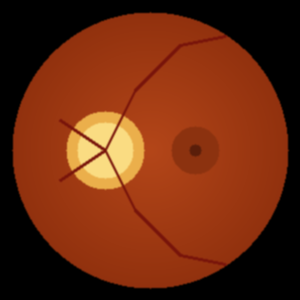
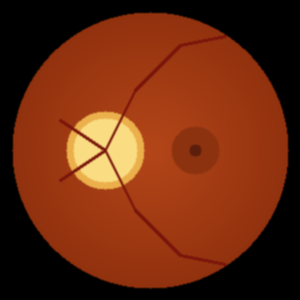
docs(readme): add 1-click Render cloud deploy button and CI/CD status badges

Changed region(s): [[0.24, 0.39, 0.48, 0.63]]

diff --git a/README.md b/README.md
@@ -1,8 +1,10 @@
 # Explainable Glaucoma Detection Using EfficientNet-B3, Hypergraph Neural Networks, and Vision-Language Transformers
 
+[![Deploy to Render](https://render.com/images/deploy-to-render-button.svg)](https://render.com/deploy?repo=https://github.com/jeromeyyy/glaucoma)
+[![CI/CD Pipeline](https://github.com/jeromeyyy/glaucoma/actions/workflows/ci-cd.yml/badge.svg)](https://github.com/jeromeyyy/glaucoma/actions)
 [![Python 3.10+](https://img.shields.io/badge/Python-3.10+-blue.svg)](https://www.python.org/)
 [![PyTorch](https://img.shields.io/badge/PyTorch-2.0+-red.svg)](https://pytorch.org/)
-[![Flask](https://img.shields.io/badge/Flask-3.0+-green.svg)](https://flask.palletsprojects.com/)
+[![FastAPI](https://img.shields.io/badge/FastAPI-0.115+-009688.svg)](https://fastapi.tiangolo.com/)
 [![License: MIT](https://img.shields.io/badge/License-MIT-yellow.svg)](LICENSE)
 
 ---
